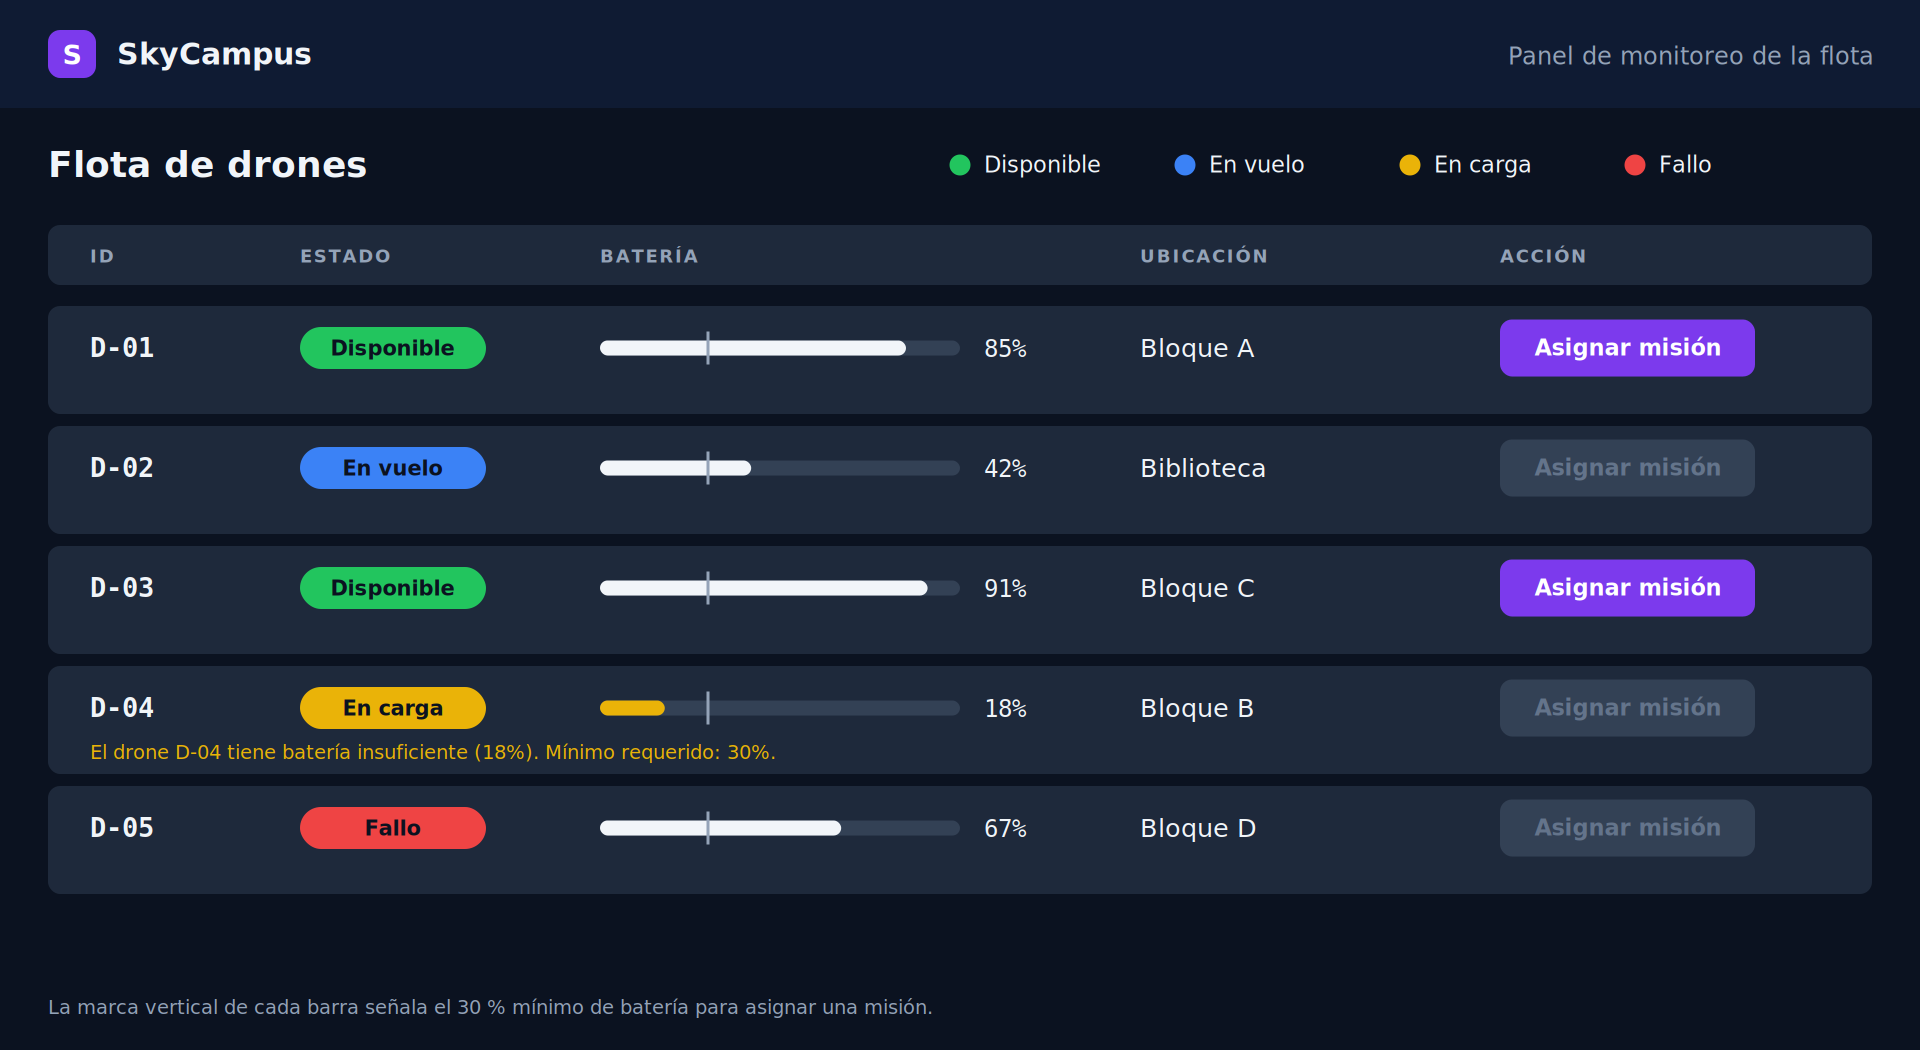
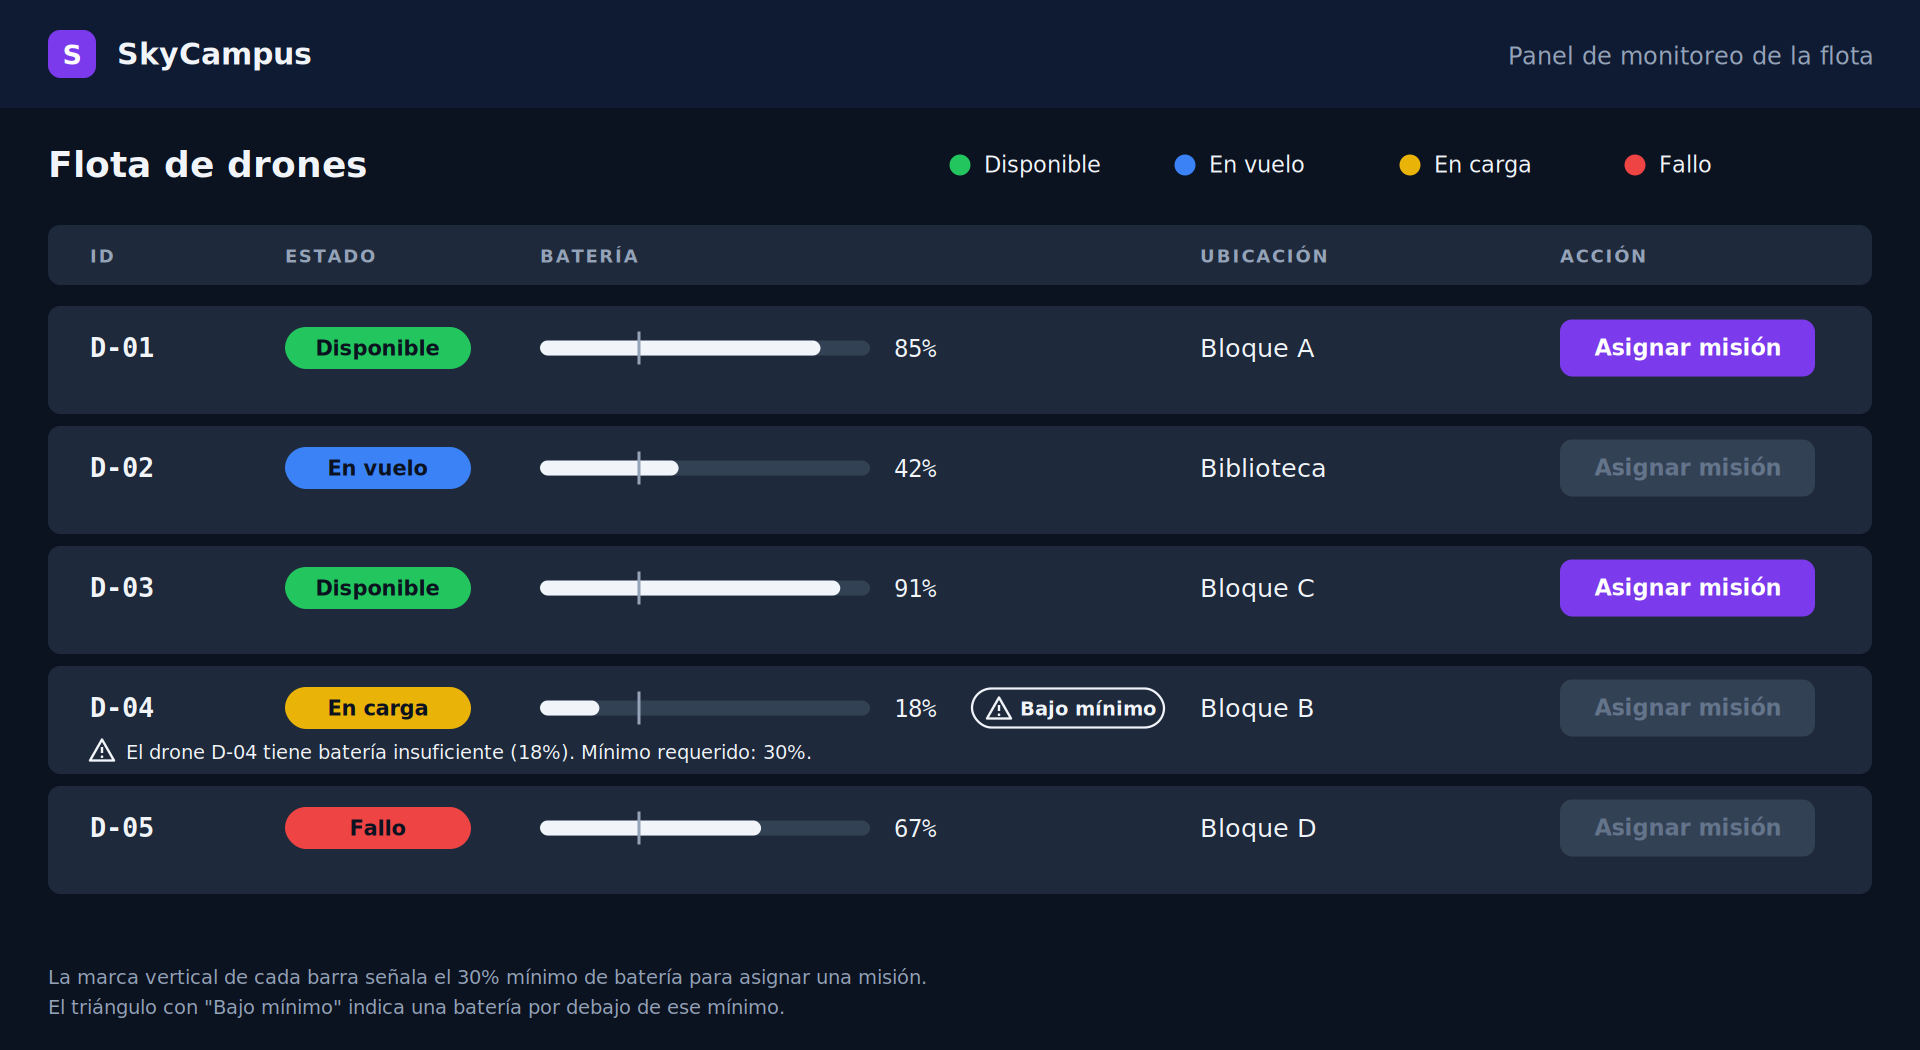
docs: la bateria baja deja de usar el amarillo de En carga y tiene su propio indicador en el manual, la hoja y el mock

diff --git a/docs/RETO08-MANUAL-IDENTIDAD.md b/docs/RETO08-MANUAL-IDENTIDAD.md
@@ -23,8 +23,12 @@ Decisión clave: el azul de marca es muy oscuro y el azul del estado "En vuelo" 
 |--------|-----|-------------|---------------------|-----------|
 | Disponible | `#22C55E` | Puede recibir una misión | `#0B1220` | 8,22:1 |
 | En vuelo | `#3B82F6` | Misión en curso | `#0B1220` | 5,09:1 |
-| En carga | `#EAB308` | Espera; también marca una batería bajo el mínimo (30%) | `#0B1220` | 9,76:1 |
+| En carga | `#EAB308` | Espera a que termine la carga | `#0B1220` | 9,76:1 |
 | Fallo | `#EF4444` | Requiere atención | `#0B1220` | 4,98:1 |
+
+### Batería bajo el mínimo
+
+La batería bajo el 30% **no usa ningún color de estado**. Se marca con un triángulo de advertencia y la etiqueta "Bajo mínimo", ambos en el color de texto principal (`#F1F5F9`), y con la marca del 30% en la barra. Así cada color de estado tiene un solo significado y el operador sabe cuál leer.
 
 Regla: el estado nunca se comunica solo con el color. El chip siempre lleva el nombre del estado en texto, para quien no distingue bien los colores.
 
